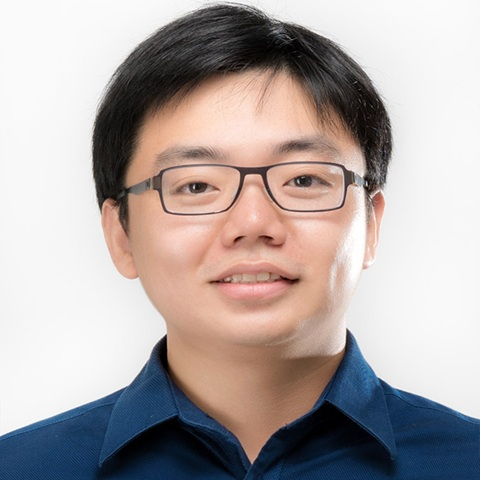
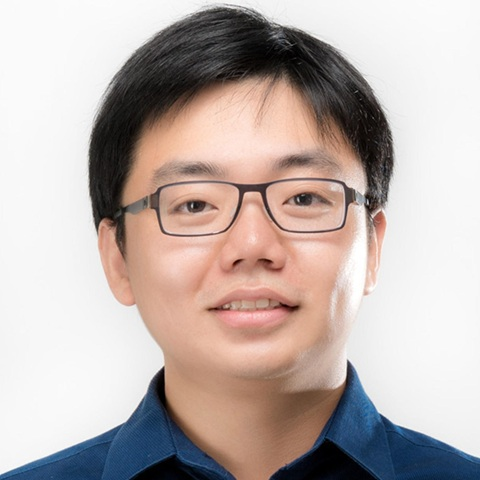
infoupdate

diff --git a/workshop/ag2026/index.html b/workshop/ag2026/index.html
@@ -391,7 +391,6 @@
                 <h3><a href="https://sites.google.com/site/chencheng1560/">Cheng Chen</a></h3>
                 <p>ByteDance, Singapore</p>
                 <div class="social">
-               
                   <a href="https://sites.google.com/site/chencheng1560/"><i class="bi bi-share-fill"></i></a>
                 </div>
               </div>
@@ -418,7 +417,7 @@
           <div class="col-md-12">
             <div class="details">
              
-              <h5 style="text-align: justify">We have four keynote talks, and more details can be accessed at:<br> <a href="https://seucoin.github.io/workshop/llmg2025/file/talkinfo.pdf"><span style="text-decoration: underline;">https://seucoin.github.io/workshop/llmg2025/file/talkinfo.pdf.</span></a></h5>
+              <h5 style="text-align: justify">We have four keynote talks, and more details can be accessed at:<a href="https://seucoin.github.io/workshop/llmg2025/file/talkinfo.pdf"><span style="text-decoration: underline;">https://seucoin.github.io/workshop/llmg2025/file/talkinfo.pdf.</span></a></h5>
       
              </div>
           </div>
